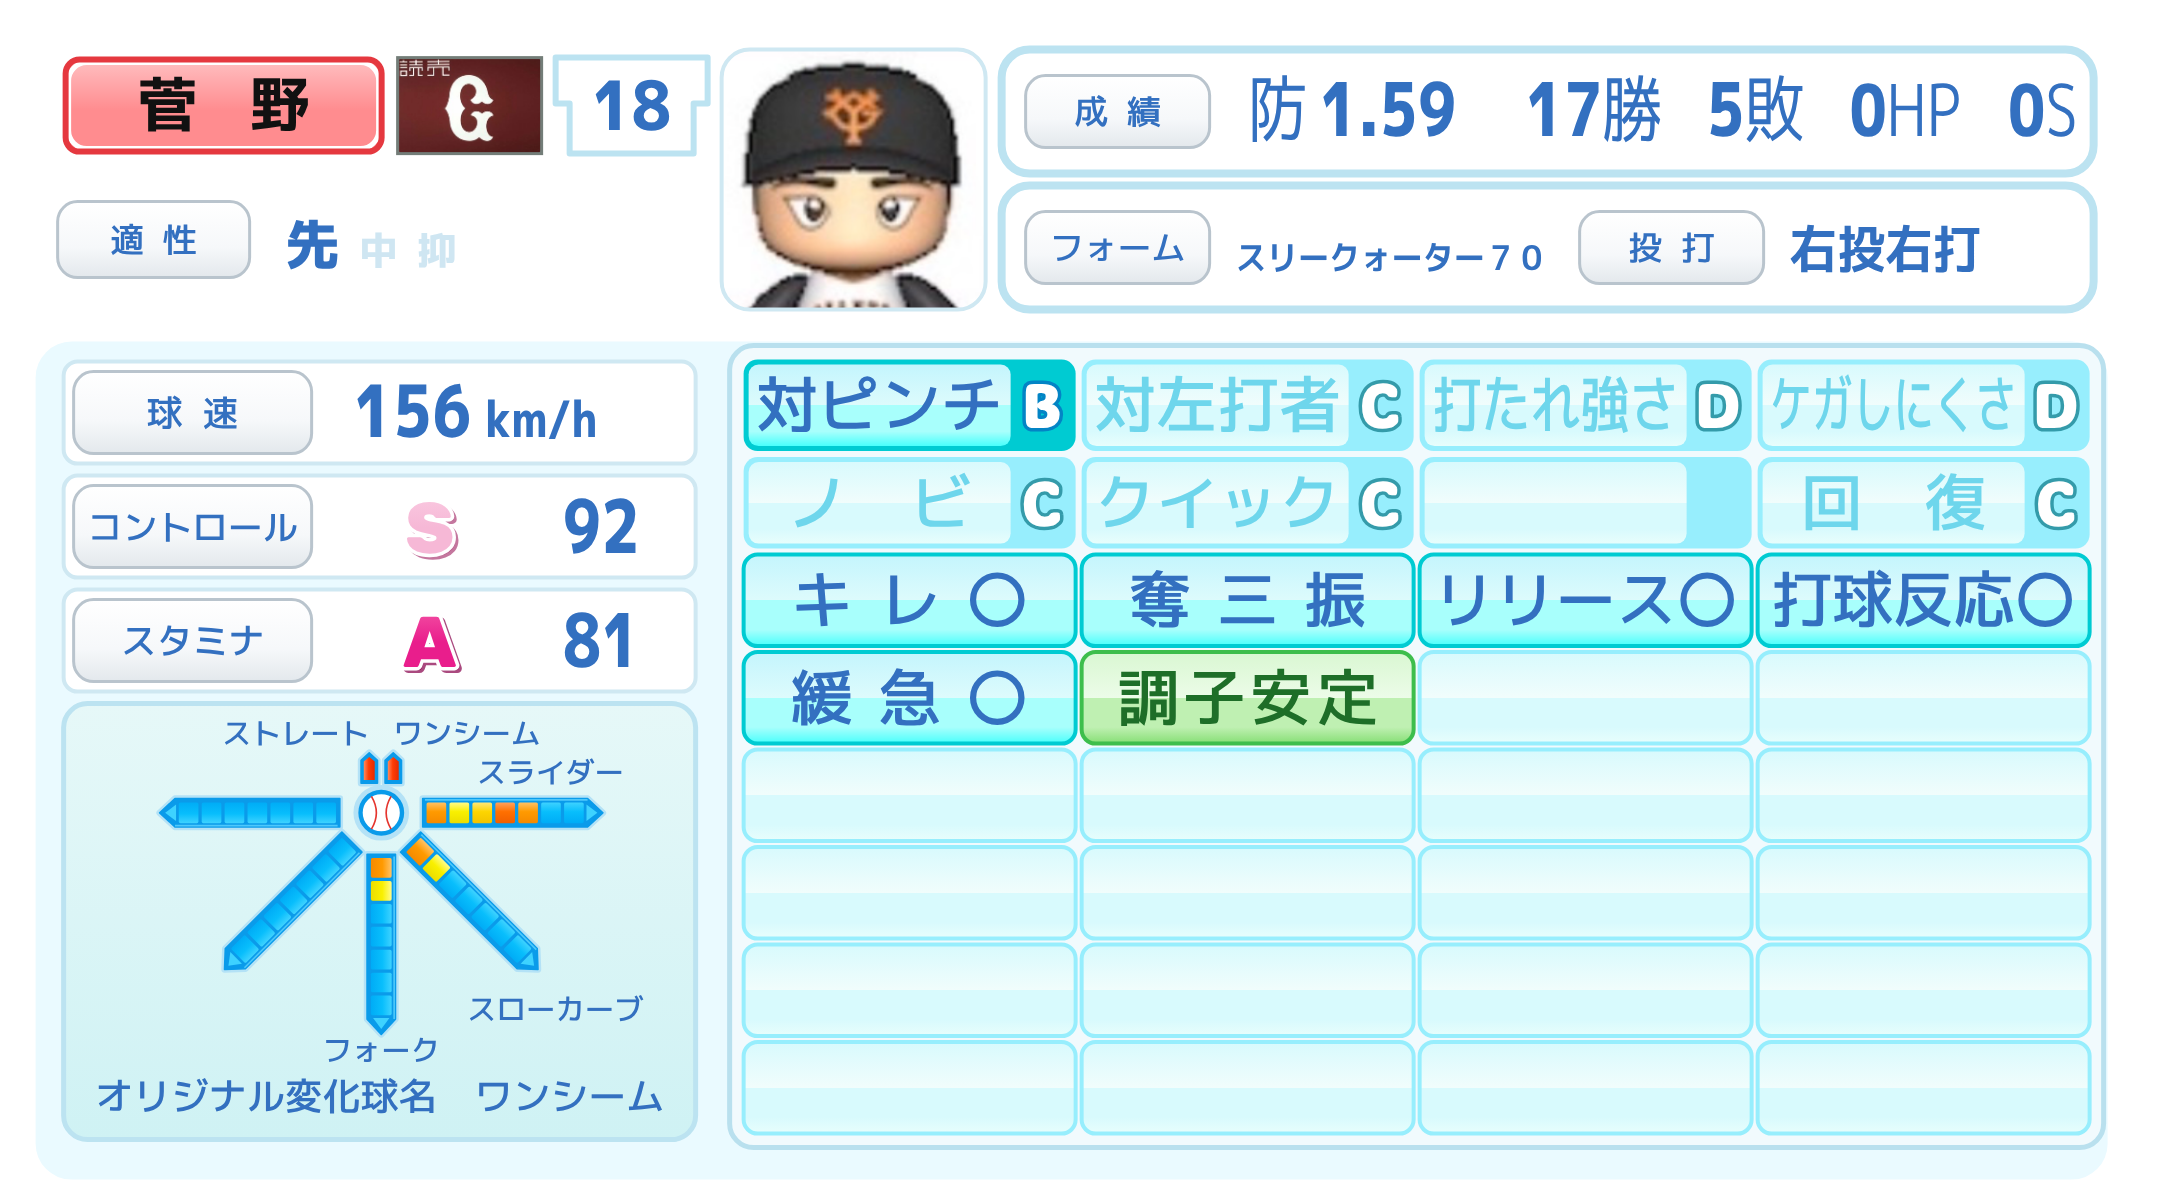
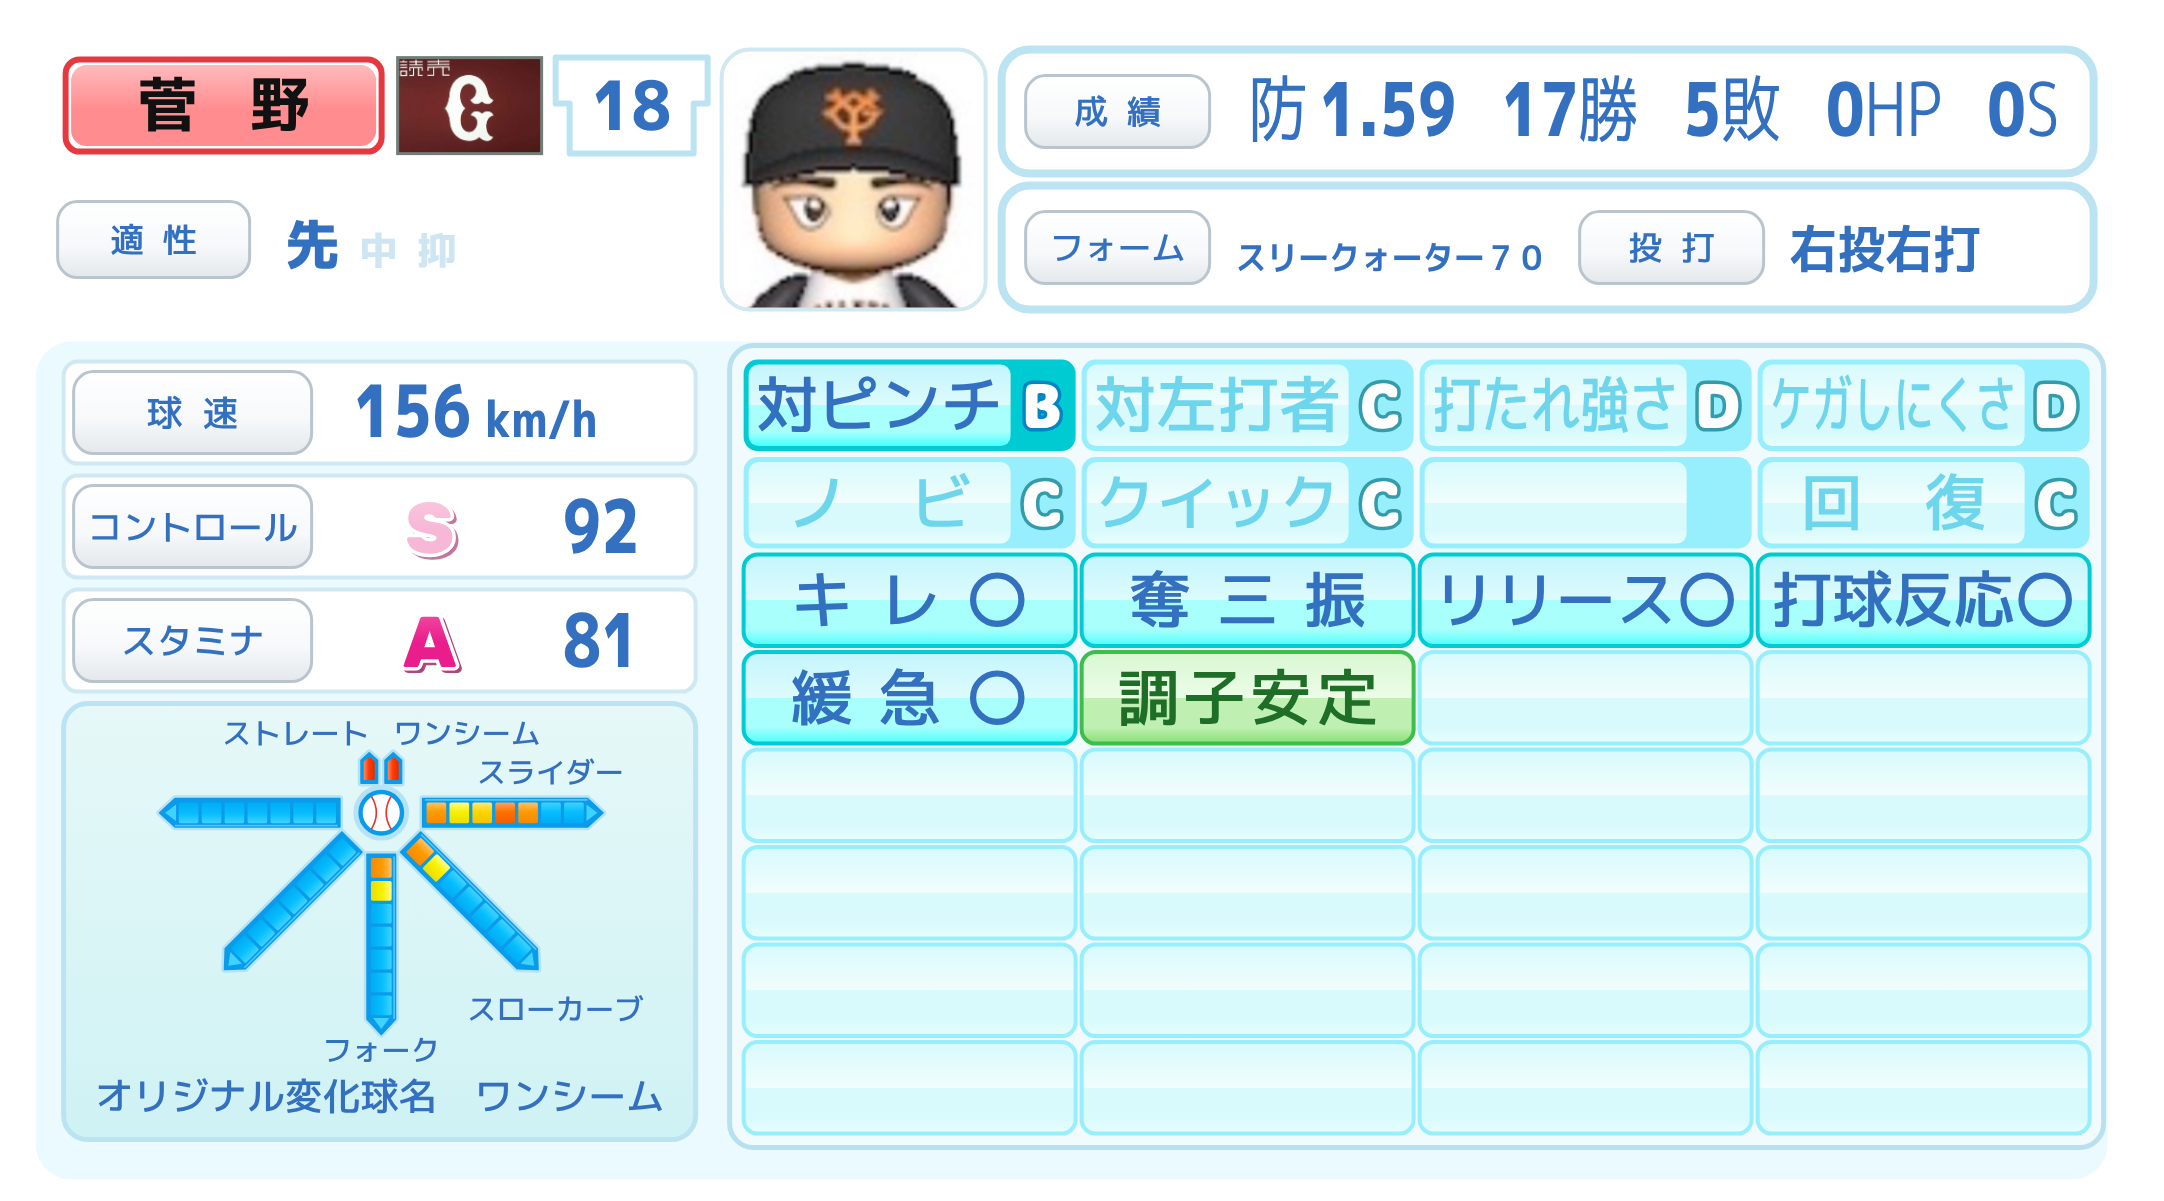
能力画像ジェネレーター：成績欄を左端と右端に揃え、間を等しく空けて並べる
桁数が変わると、間が開きすぎたり枠からあふれたりしていた。

- 値を描いたあとに幅を測り、最初を左端・最後を右端に揃えて、間を等しく空ける
- 入りきらないときは、全部を同じ割合でさらに細くする
- 投手は「防・勝・敗・HP・S」の5つを、実機と同じくほぼ同じ間隔で並べる

Claude-Session: https://claude.ai/code/session_01SKh1jhAp32CEmbZCaaEmgk

Changed region(s): [[0.6811, 0.0616, 0.9598, 0.1232]]

diff --git a/nouryoku-pitcher/index.html b/nouryoku-pitcher/index.html
@@ -396,7 +396,7 @@ footer.disclaimer{ margin-top:30px; font-size:0.82rem; color:var(--ink-mute); bo
 </p>
 
 <p>
-<img src="/nouryoku-pitcher/example-sugano.png?v=11" alt="パワプロ風 能力画像ジェネレーター（投手）で作成した能力画像の例" width="2164" height="1201" loading="lazy" style="max-width:100%; height:auto; border:1px solid #c2cad6; border-radius:12px;">
+<img src="/nouryoku-pitcher/example-sugano.png?v=12" alt="パワプロ風 能力画像ジェネレーター（投手）で作成した能力画像の例" width="2164" height="1201" loading="lazy" style="max-width:100%; height:auto; border:1px solid #c2cad6; border-radius:12px;">
 </p>
 
 <h2>よくある質問</h2>
@@ -822,6 +822,29 @@ function justifyTexts(svgRoot) {
 /* ---- 数字・成績の字を少し細くする ----
    実機の数字は横幅の狭い太い書体なので、data-squeeze の比率だけ
    字形ごと横に縮める。data-max より広ければ、字を小さくして収める。 */
+/* ---- 成績欄の並べ方 ----
+   値（「率 .322」「44本 110点」「0盗」など）を横に0.8倍に細くし、最初を左端、最後を右端に
+   揃えて、間を等しく空ける。入りきらないときは、全部を同じ割合でさらに細くする。 */
+var BIO_SQUEEZE = 0.8, BIO_MIN_GAP = 14;
+function layoutBioRow(svgRoot) {
+    var texts = Array.prototype.slice.call(svgRoot.querySelectorAll("text[data-bio]"));
+    if (!texts.length) return;
+    try {
+        var boxes = texts.map(function (t) { return t.getBBox(); });
+        var natural = boxes.reduce(function (sum, bb) { return sum + bb.width; }, 0);
+        var avail = L.bio1Row.x1 - L.bio1Row.x0;
+        var gaps = texts.length - 1;
+        var ratio = Math.min(BIO_SQUEEZE, (avail - BIO_MIN_GAP * gaps) / natural);
+        var gap = gaps ? (avail - natural * ratio) / gaps : 0;
+        var left = L.bio1Row.x0;
+        texts.forEach(function (t, i) {
+            var bb = boxes[i];
+            t.setAttribute("transform", "matrix(" + ratio.toFixed(4) + " 0 0 1 " + (left - bb.x * ratio).toFixed(2) + " 0)");
+            left += bb.width * ratio + gap;
+        });
+    } catch (e) { /* 非表示要素などでは無視 */ }
+}
+
 function squeezeTexts(svgRoot) {
     svgRoot.querySelectorAll("text[data-squeeze]").forEach(function (t) {
         try {
@@ -941,10 +964,15 @@ var L = {
     bioRow1:     { x: 501, y: 25,  w: 546, h: 62 },
     bio1Label:   { x: 513, y: 38,  w: 92,  h: 36 },
     /* 実機の並べ方：「防 3.19」「6勝  7敗」「0HP  0S」。gap は2つ目の数字の前の空き（縮める前の幅） */
+    /* 成績欄の値は左端(x0)から右端(x1)までに、間を等しく空けて並べる（桁数が変わっても釣り合う）。
+       実機も「防 3.19  6勝  7敗  0HP  0S」と、5つの値がほぼ同じ間隔で並ぶ */
+    bio1Row:     { x0: 624, x1: 1030, y: 36 },
     bio1Vals:    [
-        { x: 624, y: 36, w: 128, keys: ["era"], pre: "防" },
-        { x: 763, y: 36, w: 140, keys: ["win", "lose"], pre: "", gap: 28 },
-        { x: 925, y: 36, w: 114, keys: ["hp", "sv"], pre: "", gap: 30 }
+        { keys: ["era"], pre: "防" },
+        { keys: ["win"], pre: "" },
+        { keys: ["lose"], pre: "" },
+        { keys: ["hp"], pre: "" },
+        { keys: ["sv"], pre: "" }
     ],
     bioRow2:     { x: 501, y: 93,  w: 546, h: 62 },
     bio2Label1:  { x: 513, y: 106, w: 92,  h: 36 },
@@ -1500,9 +1528,10 @@ function renderCard() {
     var bio1 = L.bio1Vals.map(function (b) {
         var spans = b.keys.map(function (k, i) {
             var t = unitTspans(i === 0 ? b.pre : "", document.getElementById("p-" + k).value.trim());
-            return i === 0 ? t : t.replace("<tspan", '<tspan dx="' + b.gap + '"');
+            return i === 0 ? t : t.replace("<tspan", '<tspan dx="' + (b.gap || 0) + '"');
         }).join("");
-        return '<text data-squeeze="0.8" data-max="' + b.w + '" x="' + b.x + '" y="' + (b.y + 32) + '" font-size="37" font-weight="700" fill="#3370C0" font-family="&quot;M PLUS 1p&quot;,&quot;Hiragino Kaku Gothic ProN&quot;,sans-serif">' + spans + '</text>';
+        /* 位置は描いたあとに layoutBioRow() で決める */
+        return '<text data-bio="1" x="0" y="' + (L.bio1Row.y + 32) + '" font-size="37" font-weight="700" fill="#3370C0" font-family="&quot;M PLUS 1p&quot;,&quot;Hiragino Kaku Gothic ProN&quot;,sans-serif">' + spans + '</text>';
     }).join("");
 
     var svg = '' +
@@ -1562,6 +1591,7 @@ function renderCard() {
     fitTexts(svgEl);
     justifyTexts(svgEl);
     squeezeTexts(svgEl);
+    layoutBioRow(svgEl);
 }
 
 /* ---- 入力内容の保存（ブラウザのlocalStorageのみ。サーバには送信しない） ----

diff --git a/nouryoku/index.html b/nouryoku/index.html
@@ -337,7 +337,7 @@ footer.disclaimer{ margin-top:30px; font-size:0.82rem; color:var(--ink-mute); bo
 </p>
 
 <p>
-<img src="/nouryoku/example-tsutsugo.png?v=23" alt="パワプロ風 能力画像ジェネレーター（野手）で作成した能力画像の例" width="2164" height="1201" loading="lazy" style="max-width:100%; height:auto; border:1px solid #c2cad6; border-radius:12px;">
+<img src="/nouryoku/example-tsutsugo.png?v=24" alt="パワプロ風 能力画像ジェネレーター（野手）で作成した能力画像の例" width="2164" height="1201" loading="lazy" style="max-width:100%; height:auto; border:1px solid #c2cad6; border-radius:12px;">
 </p>
 
 <h2>よくある質問</h2>
@@ -670,6 +670,29 @@ function justifyTexts(svgRoot) {
 /* ---- 数字・成績の字を少し細くする ----
    実機の数字は横幅の狭い太い書体なので、data-squeeze の比率だけ
    字形ごと横に縮める。data-max より広ければ、字を小さくして収める。 */
+/* ---- 成績欄の並べ方 ----
+   値（「率 .322」「44本 110点」「0盗」など）を横に0.8倍に細くし、最初を左端、最後を右端に
+   揃えて、間を等しく空ける。入りきらないときは、全部を同じ割合でさらに細くする。 */
+var BIO_SQUEEZE = 0.8, BIO_MIN_GAP = 14;
+function layoutBioRow(svgRoot) {
+    var texts = Array.prototype.slice.call(svgRoot.querySelectorAll("text[data-bio]"));
+    if (!texts.length) return;
+    try {
+        var boxes = texts.map(function (t) { return t.getBBox(); });
+        var natural = boxes.reduce(function (sum, bb) { return sum + bb.width; }, 0);
+        var avail = L.bio1Row.x1 - L.bio1Row.x0;
+        var gaps = texts.length - 1;
+        var ratio = Math.min(BIO_SQUEEZE, (avail - BIO_MIN_GAP * gaps) / natural);
+        var gap = gaps ? (avail - natural * ratio) / gaps : 0;
+        var left = L.bio1Row.x0;
+        texts.forEach(function (t, i) {
+            var bb = boxes[i];
+            t.setAttribute("transform", "matrix(" + ratio.toFixed(4) + " 0 0 1 " + (left - bb.x * ratio).toFixed(2) + " 0)");
+            left += bb.width * ratio + gap;
+        });
+    } catch (e) { /* 非表示要素などでは無視 */ }
+}
+
 function squeezeTexts(svgRoot) {
     svgRoot.querySelectorAll("text[data-squeeze]").forEach(function (t) {
         try {
@@ -792,10 +815,13 @@ var L = {
     bioRow1:     { x: 501, y: 25,  w: 546, h: 62 },
     bio1Label:   { x: 513, y: 38,  w: 92,  h: 36 },
     /* 実機の画面で測った書き始めの位置：「率 .322」「44本110点」（続けて書く）「0盗」 */
+    /* 成績欄の値は左端(x0)から右端(x1)までに、間を等しく空けて並べる（桁数が変わっても釣り合う）。
+       gap は2つ目の数字の前の空き（縮める前の幅） */
+    bio1Row:     { x0: 624, x1: 1018, y: 36 },
     bio1Vals:    [
-        { x: 624, y: 36, w: 120, keys: ["avg"], pre: "率" },
-        { x: 763, y: 36, w: 190, keys: ["hr", "rbi"], pre: "", gap: 9 },  /* 実機の「6勝 7敗」と同じく、本と点の間を少し空ける */
-        { x: 1018, y: 36, w: 90, keys: ["sb"], pre: "", anchor: "end" }  /* 盗塁は右端を揃える（2桁でも枠からはみ出さない） */
+        { keys: ["avg"], pre: "率" },
+        { keys: ["hr", "rbi"], pre: "", gap: 9 },  /* 実機の「6勝 7敗」と同じく、本と点の間を少し空ける */
+        { keys: ["sb"], pre: "" }
     ],
     bioRow2:     { x: 501, y: 93,  w: 546, h: 62 },
     bio2Label1:  { x: 513, y: 106, w: 92,  h: 36 },
@@ -1085,7 +1111,8 @@ function renderCard() {
             var t = unitTspans(i === 0 ? b.pre : "", document.getElementById("p-" + k).value.trim());
             return i === 0 ? t : t.replace("<tspan", '<tspan dx="' + (b.gap || 0) + '"');
         }).join("");
-        return '<text data-squeeze="0.8" data-max="' + b.w + '" x="' + b.x + '" y="' + (b.y + 32) + '"' + (b.anchor ? ' text-anchor="' + b.anchor + '"' : '') + ' font-size="37" font-weight="700" fill="#3370C0" font-family="&quot;M PLUS 1p&quot;,&quot;Hiragino Kaku Gothic ProN&quot;,sans-serif">' + spans + '</text>';
+        /* 位置は描いたあとに layoutBioRow() で決める */
+        return '<text data-bio="1" x="0" y="' + (L.bio1Row.y + 32) + '" font-size="37" font-weight="700" fill="#3370C0" font-family="&quot;M PLUS 1p&quot;,&quot;Hiragino Kaku Gothic ProN&quot;,sans-serif">' + spans + '</text>';
     }).join("");
 
     var svg = '' +
@@ -1150,6 +1177,7 @@ function renderCard() {
     fitTexts(svgEl);
     justifyTexts(svgEl);
     squeezeTexts(svgEl);
+    layoutBioRow(svgEl);
 }
 
 /* ---- 入力内容の保存（ブラウザのlocalStorageのみ。サーバには送信しない） ----
